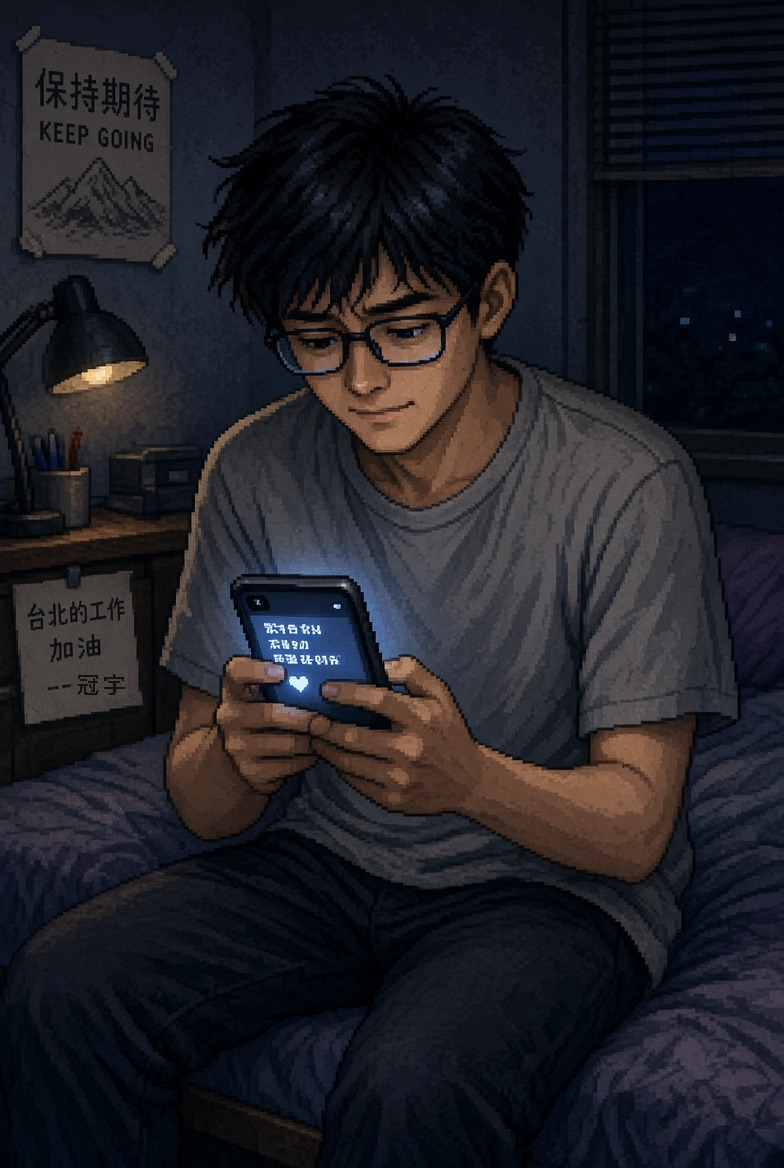
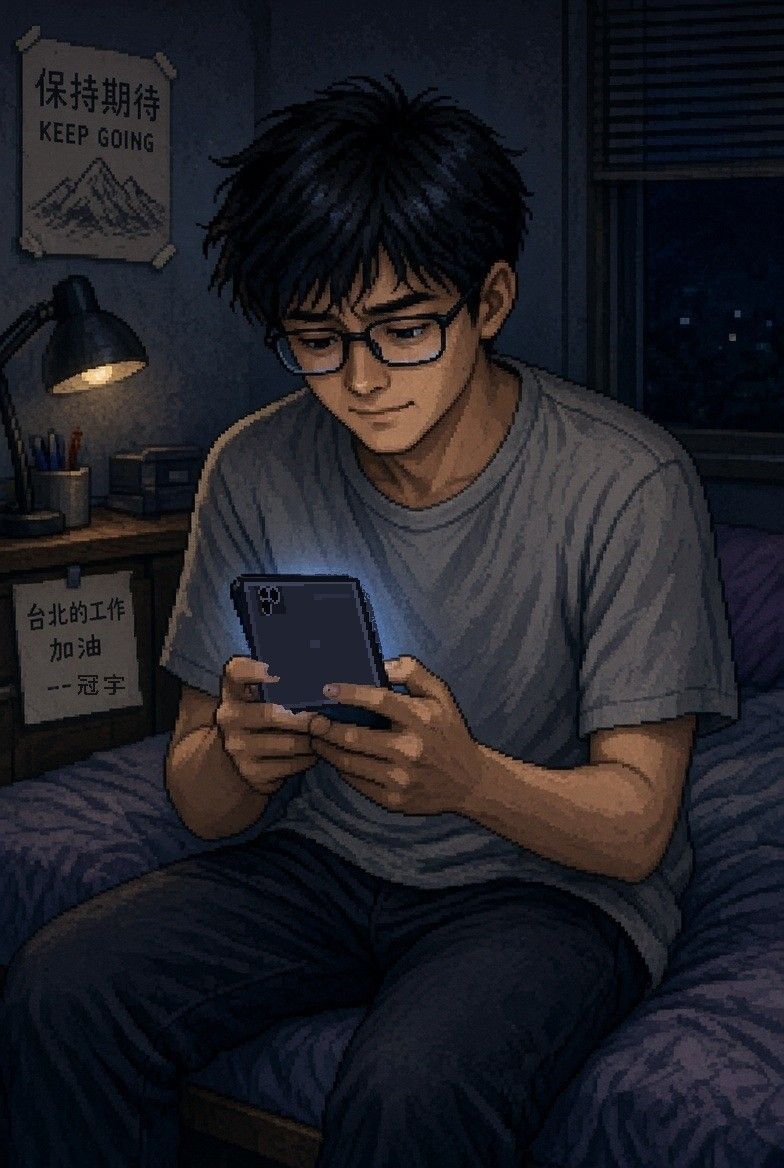
fix(left-on-read): 開場最後一張圖的手機改成背面朝外
原圖手機螢幕朝向鏡頭，冠宇卻低頭看著它。把手機改畫成背面（深色機身、鏡頭模組），手指保留；手機光改從上緣打到手和臉。

Changed region(s): [[0.3061, 0.4932, 0.4898, 0.6164]]

diff --git a/src/components/original/pixel/introScenes.ts b/src/components/original/pixel/introScenes.ts
@@ -33,6 +33,8 @@ const FACE: Record<ImageId, readonly [number, number]> = {
   phone: [385, 345],
 };
 const PHONE_SCREEN = [310, 650] as const;
+/** 螢幕朝著他，光從手機上緣打到手和臉上 */
+const PHONE_LIGHT = [335, 560] as const;
 
 /** 載入四張圖；載入失敗的就留空，那一幕只剩黑底，不會卡住開場 */
 export async function loadIntroImages(): Promise<IntroImages> {
@@ -151,7 +153,7 @@ const room = (ctx: Ctx, t: number, images: IntroImages) => {
   if (sitUp > 0) {
     photo(ctx, images.phone, 1 + 0.08 * ramp(t, 4300, 7000), PHONE_SCREEN, sitUp);
     ctx.globalAlpha = sitUp;
-    phoneGlow(ctx, t, PHONE_SCREEN[0] * TO_SCREEN, PHONE_SCREEN[1] * TO_SCREEN, 110);
+    phoneGlow(ctx, t, PHONE_LIGHT[0] * TO_SCREEN, PHONE_LIGHT[1] * TO_SCREEN, 110);
     ctx.globalAlpha = 1;
   }
 };
